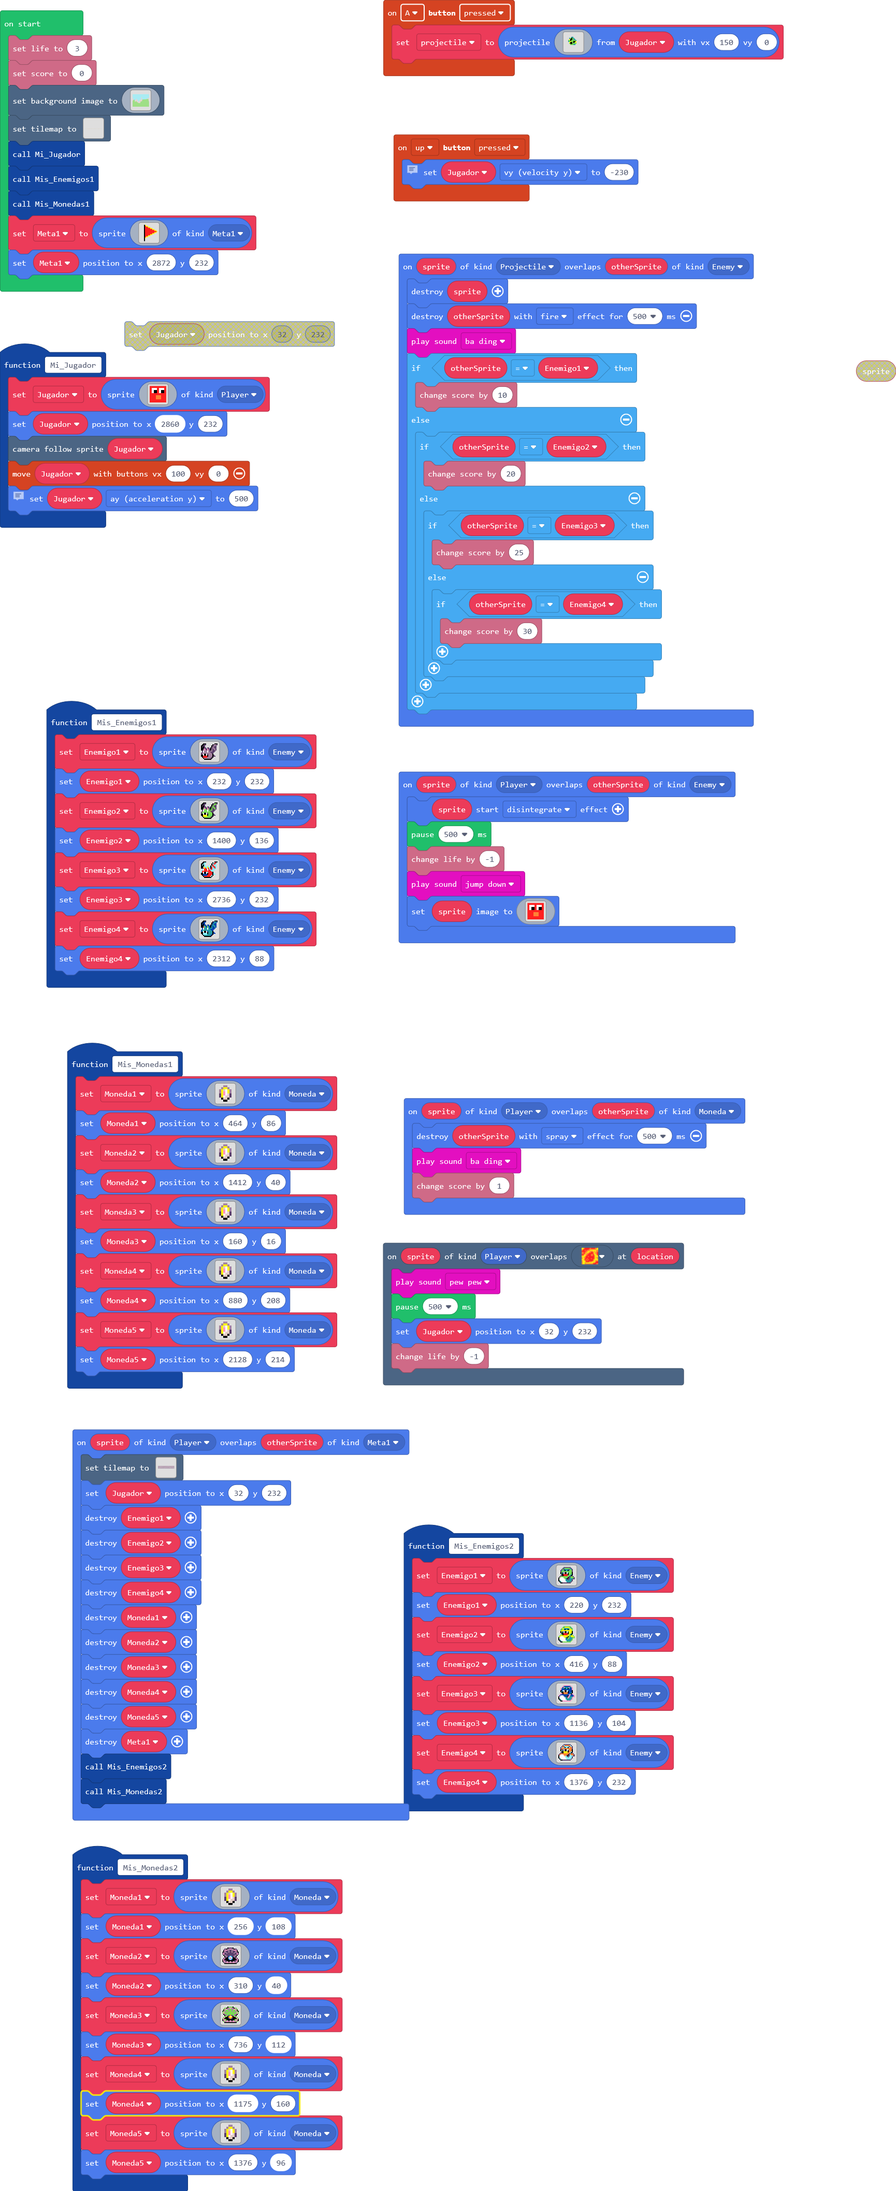
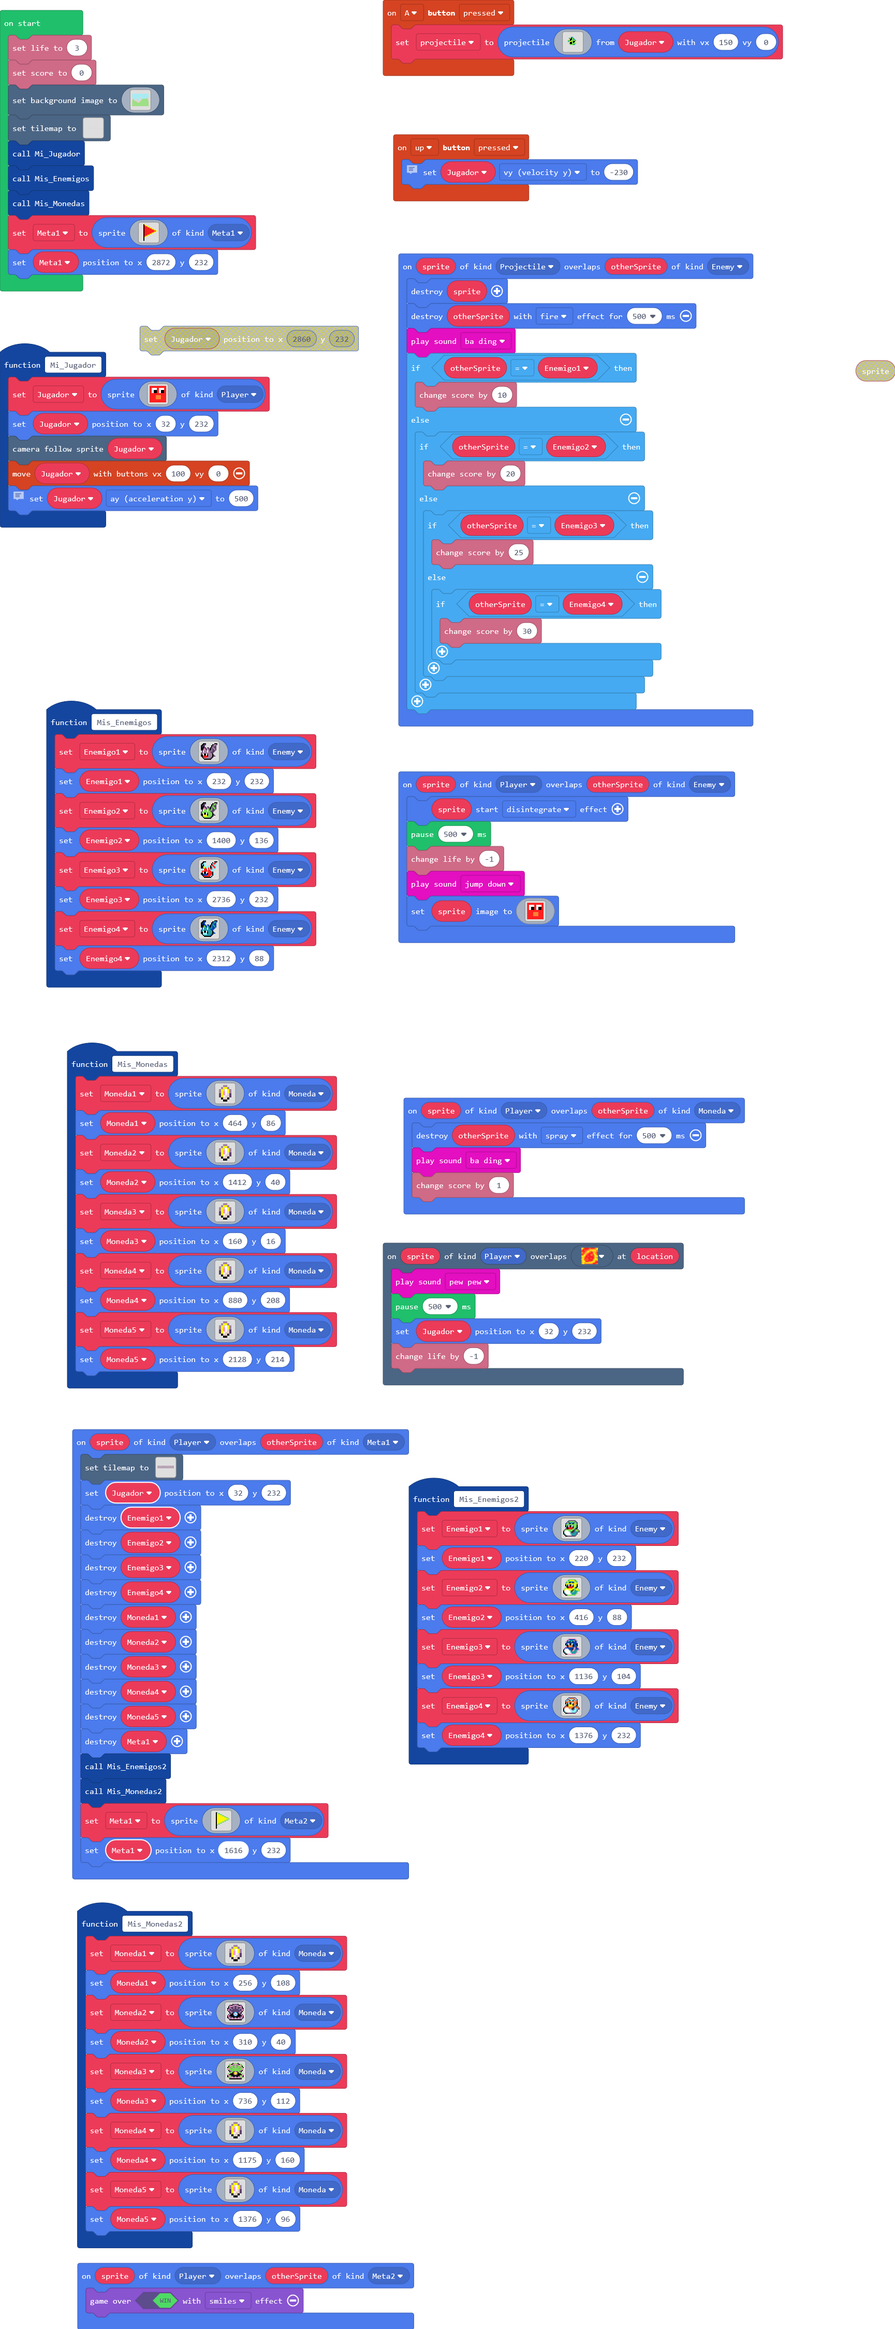
Finalizado nivel 2

diff --git a/main.ts b/main.ts
@@ -3,6 +3,7 @@ namespace SpriteKind {
     export const Player_Inmune = SpriteKind.create()
     export const Meta1 = SpriteKind.create()
     export const Moneda = SpriteKind.create()
+    export const Meta2 = SpriteKind.create()
 }
 namespace myTiles {
     //% blockIdentity=images._tile
@@ -25,7 +26,7 @@ namespace myTiles {
 . . . . . . . . . . . . . . . . 
 `
 }
-function Mis_Enemigos1 () {
+function Mis_Enemigos () {
     Enemigo1 = sprites.create(img`
 . . f f f . . . . . . . . f f f 
 . f f c c . . . . . . f c b b c 
@@ -102,84 +103,6 @@ f f 9 9 9 9 f 6 6 6 6 f 8 8 . .
 . . . f f f f f f f . . . . . . 
 `, SpriteKind.Enemy)
     Enemigo4.setPosition(2312, 88)
-}
-function Mis_Enemigos2 () {
-    Enemigo1 = sprites.create(img`
-. . . . . c c c c c c c . . . . 
-. . . . c 6 7 7 7 7 7 6 c . . . 
-. . . c 7 c 6 6 6 6 c 7 6 c . . 
-. . c 6 7 6 f 6 6 f 6 7 7 c . . 
-. . c 7 7 7 7 7 7 7 7 7 7 c . . 
-. . f 7 8 1 f f 1 6 7 7 7 f . . 
-. . f 6 f 1 f f 1 f 7 7 7 f . . 
-. . . f f 2 2 2 2 f 7 7 6 f . . 
-. . c c f 2 2 2 2 7 7 6 f c . . 
-. c 7 7 7 7 7 7 7 7 c c 7 7 c . 
-c 7 1 1 1 7 7 7 7 f c 6 7 7 7 c 
-f 1 1 1 1 1 7 6 f c c 6 6 6 c c 
-f 1 1 1 1 1 1 6 6 c 6 6 6 c . . 
-f 6 1 1 1 1 1 6 6 6 6 6 6 c . . 
-. f 6 1 1 1 1 1 6 6 6 6 c . . . 
-. . f f c c c c c c c c . . . . 
-`, SpriteKind.Enemy)
-    Enemigo1.setPosition(220, 232)
-    Enemigo2 = sprites.create(img`
-. . . . . 7 7 7 7 7 7 7 . . . . 
-. . . . 7 6 5 5 5 5 5 6 7 . . . 
-. . . 7 5 7 6 6 6 6 7 5 6 7 . . 
-. . 7 6 5 6 f 6 6 f 6 5 5 7 . . 
-. . 7 5 5 5 5 5 5 5 5 5 5 7 . . 
-. . f 5 8 1 f f 1 6 5 5 5 f . . 
-. . f 6 f 1 f f 1 f 5 5 5 f . . 
-. . . f f 2 2 2 2 f 5 5 6 f . . 
-. . 7 7 f 2 2 2 2 5 5 6 f 7 . . 
-. 7 5 5 5 5 5 5 5 5 7 7 5 5 7 . 
-7 5 1 1 1 5 5 5 5 f 7 6 5 5 5 7 
-f 1 1 1 1 1 5 6 f 7 7 6 6 6 7 7 
-f 1 1 1 1 1 1 6 6 7 6 6 6 7 . . 
-f 6 1 1 1 1 1 6 6 6 6 6 6 7 . . 
-. f 6 1 1 1 1 1 6 6 6 6 7 . . . 
-. . f f 7 7 7 7 7 7 7 7 . . . . 
-`, SpriteKind.Enemy)
-    Enemigo2.setPosition(416, 88)
-    Enemigo3 = sprites.create(img`
-. . . . . 3 3 3 3 3 3 3 . . . . 
-. . . . 3 6 8 8 8 8 8 6 3 . . . 
-. . . 3 8 3 6 6 6 6 3 8 6 3 . . 
-. . 3 6 8 6 f 6 6 f 6 8 8 3 . . 
-. . 3 8 8 8 8 8 8 8 8 8 8 3 . . 
-. . f 8 9 1 f f 1 6 8 8 8 f . . 
-. . f 6 f 1 f f 1 f 8 8 8 f . . 
-. . . f f 4 4 4 4 f 8 8 6 f . . 
-. . 3 3 f 4 4 4 4 8 8 6 f 3 . . 
-. 3 8 8 8 8 8 8 8 8 3 3 8 8 3 . 
-3 8 1 1 1 8 8 8 8 f 3 6 8 8 8 3 
-f 1 1 1 1 1 8 6 f 3 3 6 6 6 3 3 
-f 1 1 1 1 1 1 6 6 3 6 6 6 3 . . 
-f 6 1 1 1 1 1 6 6 6 6 6 6 3 . . 
-. f 6 1 1 1 1 1 6 6 6 6 3 . . . 
-. . f f 3 3 3 3 3 3 3 3 . . . . 
-`, SpriteKind.Enemy)
-    Enemigo3.setPosition(1136, 104)
-    Enemigo4 = sprites.create(img`
-. . . . . c c c c c c c . . . . 
-. . . . c 9 4 4 4 4 4 9 c . . . 
-. . . c 4 c 9 9 9 9 c 4 9 c . . 
-. . c 9 4 9 f 9 9 f 9 4 4 c . . 
-. . c 4 4 4 4 4 4 4 4 4 4 c . . 
-. . f 4 8 1 f f 1 9 4 4 4 f . . 
-. . f 9 f 1 f f 1 f 4 4 4 f . . 
-. . . f f 5 5 5 5 f 4 4 9 f . . 
-. . c c f 5 5 5 5 4 4 9 f c . . 
-. c 4 4 4 4 4 4 4 4 c c 4 4 c . 
-c 4 1 1 1 4 4 4 4 f c 9 4 4 4 c 
-f 1 1 1 1 1 4 9 f c c 9 9 9 c c 
-f 1 1 1 1 1 1 9 9 c 9 9 9 c . . 
-f 9 1 1 1 1 1 9 9 9 9 9 9 c . . 
-. f 9 1 1 1 1 1 9 9 9 9 c . . . 
-. . f f c c c c c c c c . . . . 
-`, SpriteKind.Enemy)
-    Enemigo4.setPosition(1376, 232)
 }
 function Mis_Monedas2 () {
     Moneda1 = sprites.create(img`
@@ -279,7 +202,7 @@ sprites.onOverlap(SpriteKind.Projectile, SpriteKind.Enemy, function (sprite, oth
         }
     }
 })
-function Mis_Monedas1 () {
+function Mis_Monedas () {
     Moneda1 = sprites.create(img`
 . . . b b . . . 
 . . b 5 5 b . . 
@@ -336,6 +259,9 @@ function Mis_Monedas1 () {
 `, SpriteKind.Moneda)
     Moneda5.setPosition(2128, 214)
 }
+sprites.onOverlap(SpriteKind.Player, SpriteKind.Meta2, function (sprite, otherSprite) {
+    game.over(true, effects.smiles)
+})
 controller.A.onEvent(ControllerButtonEvent.Pressed, function () {
     projectile = sprites.createProjectileFromSprite(img`
 . . . . . . . . . . . . . . . . 
@@ -405,7 +331,7 @@ function Mi_Jugador () {
 2 2 2 2 2 2 2 2 2 2 2 2 2 2 2 2 
 2 2 2 2 2 2 2 2 2 2 2 2 2 2 2 2 
 `, SpriteKind.Player)
-    Jugador.setPosition(2860, 232)
+    Jugador.setPosition(32, 232)
     scene.cameraFollowSprite(Jugador)
     controller.moveSprite(Jugador, 100, 0)
     // Aceleracion vertical
@@ -413,26 +339,26 @@ function Mi_Jugador () {
 }
 sprites.onOverlap(SpriteKind.Player, SpriteKind.Meta1, function (sprite, otherSprite) {
     tiles.setTilemap(tiles.createTilemap(
-            hex`6400100001010101010103010101010101010101010101010101010101010101010101010101010101010101010101010101010101010101010101010101010101010101010101010101010101010101010101010101010101010101010101010101010101010101010301010101010101010101010101010101010401010102020101010101010202020201010101010101010101010101010101010202020202020201010101010104040404040401010101010101010101010101010101020101010101010101010104010101010102010101010101010101010101010104040101010101010301010101010103010101010201010101030303010101020201010101030101020201010101010101010104010102010101030103010101010101010102010104010102020104040101010101010101010102010301010606060606060101010101010103010201010101010103010103010101010101010101020101010101030301010101060606060601010101010401010103030101010303030101010101010202010401010101040101010104040404010101010301010101010101010101010101010101030101010102010101010101010101030101010101010201010101030401010101010201010101010101010101040101010101010101010301010301010101010101010101010101010101010101010301010101010101010102010201010101010201010101010404010301010102020302020101010301010201010103030101040401010201020101010301010101010104010101010101010101010306060603010101010103030303030101010101010101030101010101010202010102010106060606060601040401010101010101010101010101010101010102010101010606060606060101020201010101010101010101010101010301010101010103010101010301010101010101010101010103010201010301010101020201010101010101010101010101010101010102010103010103010101010101010101020303010104040404010104010102010101010106060606060601010101030303010101010101010101010101010102020101010101030101010101010102020101010101010101010101010104010101010101010101010303010201010301010103030301010101010104040101040101020101010201030101020101010101010101010101010202020101010102010101020101010101010301010101010202010101010606060606060101010101040101010202010101010101010102010101010606060606060101010101040101010401010201010101010101010101010101010103030301010201060606010101020101010101010101010103010101020201010101010201010101010101010202010104010101010101010101010102010101010101030101020101030101010101040101040102010101010103010101010101030101010101020201010101010101010201010101010101010101030101020101010101010101010101010101040101020101010101010101010202020201010101010101010101010201010303010104040101010101020101010301010101010106060606060601020101010101010101010102010103020101010101010101010101060606060606010103030303010404010101010102020101010101010106060606060601010301010101020101010304010101010101020101010101010202020404010301010101010101010101010101010101060606060606060202010101010404010101010101010101010101010101040101010102040401010103010404010101010101030103030101010201010101010101010101030201010101010101010401010301010103030101010101010103010101010201010201010201010101010101010101010101010102020101010101010101010101010101040401010301010101010101010101010303010101020201010101010101020203010101010103030301010103010101010101030303010103010101010101010102010202010105050505050505050505050505050505050505050505050505050505050505050505050505050505050505050505050505050505050505050505050505050505050505050505050505050505050505050505050505050505050505050505050505050505`,
+            hex`6700100001010101010103010101010101010101010101010101010101010101010101010101010101010101010101010101010101010101010101010101010101010101010101010101010101010101010101010101010101010101030301010101010101010101010101010301010101010101010101010101010101010401010102020101010101010202020201010101010101010101010101010101010202020202020201010101010104040404040401010101010101010101010101010103030101010101010101010104010101030101010102010101010101010101010101010104040101010101010301010101010103010101010201010101030303010101020201010101030101020201010101010101010104010102010101030103010101010303010102010104010102020104040101030101010101010101010102010301010606060606060101010101010103010201010101010103010103010101010101010101020101010101030301010101060606060601010101010401010103030101010303030101010101010202010401010101040101010101010104040404010101010301010101010101010101010101010101030101010102010101010101010101030101010101010201010101030401010101010201010101010101010101040101010101010101010301010301010101010101010101010103030101010101010101010301010101010101010102010201010101010201010101010404010301010102020302020101010301010201010103030101040401010201020101010301010101010104010101010101010101010306060603010101010103030303030103030101010101010101030101010101010202010102010106060606060601040401010101010101010101010101010101010102010101010606060606060101020201010101010101010101010101010301010101010103010101010301010101030101010101010303010103010201010301010101020201010101010101010101010101010101010102010103010103010101010101010101020303010104040404010104010102010101010106060606060601010101030303010101010101010101010101030102020101010202010101030101010101010102020101010101010101010101010104010101010101010101010303010201010301010103030301010101010104040101040101020103010201030101020101010101010101010101010202020101010102010301020101010101010101010301010101010202010101010606060606060101010101040101010202010101010101010102010101010606060606060101010101040101010401010203010101010101010303010101010103030301010201060606010101020101010101010202010301010103010101020201010101010201010101010101010202010104010101010101010101010102010101010101030101020101030101010101040101040103010101010103010103010101030101010101020201010101010101010201010101010101010202010101030101020101010101010101010101010101040101020101010101010101010202020201010101010101010101010201010303010104040101010101020101010301010101030106060606060601020101010101010301010102010103020101010101010301010101010101060606060606010103030303010404010101010102020101010101010106060606060601010301010101020101010304010101010101020101010101010202020404010301010101010101010301010301010101060606060606060202010101010101010404010101010101010101010101010101040101010102040401010103010404010101010101030103030101010201010101010101010101030201010101010101010401010301010103030101010301010103010101010201010201010201010102020101010101010101010101010102020101010101010101010101010101040401010301010101010101010101010303010101020201010101010101020203010101010103030301010103010101010101030303010103010101010101010102010202010101010105050505050505050505050505050505050505050505050505050505050505050505050505050505050505050505050505050505050505050505050505050505050505050505050505050505050505050505050505050505050505050505050505050505050505`,
             img`
-. . . . . . . . . . . . . . . . . . . . . . . . . . . . . . . . . . . . . . . . . . . . . . . . . . . . . . . . . . . . . . . . . . . . . . . . . . . . . . . . . . . . . . . . . . . . . . . . . . . . 
-. . . . . . . . . . . . . . . . . . . . . . . . . . . . . . . . . . . . . . . . . . . . . . . . . . . . . . . . . . . . . . . . . . . . . . . . . . . . . . . . . . . . . . . . . . . . . . . . . . . . 
-. . . . . . . . . . . . . . . . . . . . . . . . . . . . . . . . . . . . . . . . . . . . . . . . . . . . . . . . . . . . . . . . . . . . . . . . . . . . . . . . . . . . . . . . . . . . . . . . . . . . 
-. . . . . . . . . . . . . . 2 2 2 2 2 2 . . . . . . . . . . . . . . . . . . . . . . . . . . . . . . . . . . . . . . . . . 2 2 2 2 2 . . . . . . . . . . . . . . . . . . . . . . . . . . . . . . . . . . 
-. . . . . . . . . . . . . . . . . . . . . . . . . . . . . . . . . . . . . . . . . . . . . . . . . . . . . . . . . . . . . . . . . . . . . . . . . . . . . . . . . . . . . . . . . . . . . . . . . . . . 
-. . . . . . . . . . . . . . . . . . . . . . . . . . . . . . . . . . . . . . . . . . . . . . . . . . . . . . . . . . . . . . . . . . . . . . . . . . . . . . . . . . . . . 2 2 2 . . . . . . . . . . . . 
-. . . . . . . . . . . . . . . . . . . . . 2 2 2 2 2 2 . . . . . . . . . . . . . . . . . . . . . . . . . . 2 2 2 2 2 2 . . . . . . . . . . . . . . . . . . . . . . . . . . . . . . . . . . . . . . . . . 
-. . . . . . . . . . . . . . . . . . . . . . . . . . . . . . . . . . . . . . . . . . . . . . . . . . . . . . . . . . . . . . . . . . . . 2 2 2 2 2 2 . . . . . . . . . . . . . . . . . . . . . . . . . . 
-. . . . . . . . . . . . . . . . . . . . . . . . . . . . . . . . . . . . . . . . . . . . . . . . . . . . . . . . . . . . . . . . . . . . . . . . . . . . . . . . . . . . . . . . . . . . . . . . . . . . 
-. . . . . . . . . . . . . . 2 2 2 2 2 2 . . . . . . . . . . . . . . . . . . . . . . . . 2 2 2 2 2 2 . . . . . . . . . . . . . . . . . . . . . . . . . . . . . . . . . . . 2 2 2 . . . . . . . . . . . . 
-. . . . . . . . . . . . . . . . . . . . . . . . . . . . . . . . . . . . . . . . . . . . . . . . . . . . . . . . . . . . . . . . . . . . . . . . . . . . . . . . . . . . . . . . . . . . . . . . . . . . 
-. . . . . . . . . . . . . . . . . . . . . . . . . . . . . . . . . . . . . . . . . . . . . . . . . . . . . . . . . . . . . . . . . . . . . . . . . 2 2 2 2 2 2 . . . . . . . . . . . . . . . . . . . . . 
-. . . . . . . 2 2 2 2 2 2 . . . . . . . . . . . . . . . . . . . . . . . 2 2 2 2 2 2 . . . . . . . . . . . . . . . . . . . . . . . . . . . . . . . . . . . . . . . . . . . . . . . . . 2 2 2 2 2 2 2 . . 
-. . . . . . . . . . . . . . . . . . . . . . . . . . . . . . . . . . . . . . . . . . . . . . . . . . . . . . . . . . . . . . . . . . . . . . . . . . . . . . . . . . . . . . . . . . . . . . . . . . . . 
-. . . . . . . . . . . . . . . . . . . . . . . . . . . . . . . . . . . . . . . . . . . . . . . . . . . . . . . . . . . . . . . . . . . . . . . . . . . . . . . . . . . . . . . . . . . . . . . . . . . . 
-2 2 2 2 2 2 2 2 2 2 2 2 2 2 2 2 2 2 2 2 2 2 2 2 2 2 2 2 2 2 2 2 2 2 2 2 2 2 2 2 2 2 2 2 2 2 2 2 2 2 2 2 2 2 2 2 2 2 2 2 2 2 2 2 2 2 2 2 2 2 2 2 2 2 2 2 2 2 2 2 2 2 2 2 2 2 2 2 2 2 2 2 2 2 2 2 2 2 2 2 
+. . . . . . . . . . . . . . . . . . . . . . . . . . . . . . . . . . . . . . . . . . . . . . . . . . . . . . . . . . . . . . . . . . . . . . . . . . . . . . . . . . . . . . . . . . . . . . . . . . . . . . . 
+. . . . . . . . . . . . . . . . . . . . . . . . . . . . . . . . . . . . . . . . . . . . . . . . . . . . . . . . . . . . . . . . . . . . . . . . . . . . . . . . . . . . . . . . . . . . . . . . . . . . . . . 
+. . . . . . . . . . . . . . . . . . . . . . . . . . . . . . . . . . . . . . . . . . . . . . . . . . . . . . . . . . . . . . . . . . . . . . . . . . . . . . . . . . . . . . . . . . . . . . . . . . . . . . . 
+. . . . . . . . . . . . . . 2 2 2 2 2 2 . . . . . . . . . . . . . . . . . . . . . . . . . . . . . . . . . . . . . . . . . 2 2 2 2 2 . . . . . . . . . . . . . . . . . . . . . . . . . . . . . . . . . . . . . 
+. . . . . . . . . . . . . . . . . . . . . . . . . . . . . . . . . . . . . . . . . . . . . . . . . . . . . . . . . . . . . . . . . . . . . . . . . . . . . . . . . . . . . . . . . . . . . . . . . . . . . . . 
+. . . . . . . . . . . . . . . . . . . . . . . . . . . . . . . . . . . . . . . . . . . . . . . . . . . . . . . . . . . . . . . . . . . . . . . . . . . . . . . . . . . . . 2 2 2 . . . . . . . . . . . . . . . 
+. . . . . . . . . . . . . . . . . . . . . 2 2 2 2 2 2 . . . . . . . . . . . . . . . . . . . . . . . . . . 2 2 2 2 2 2 . . . . . . . . . . . . . . . . . . . . . . . . . . . . . . . . . . . . . . . . . . . . 
+. . . . . . . . . . . . . . . . . . . . . . . . . . . . . . . . . . . . . . . . . . . . . . . . . . . . . . . . . . . . . . . . . . . . 2 2 2 2 2 2 . . . . . . . . . . . . . . . . . . . . . . . . . . . . . 
+. . . . . . . . . . . . . . . . . . . . . . . . . . . . . . . . . . . . . . . . . . . . . . . . . . . . . . . . . . . . . . . . . . . . . . . . . . . . . . . . . . . . . . . . . . . . . . . . . . . . . . . 
+. . . . . . . . . . . . . . 2 2 2 2 2 2 . . . . . . . . . . . . . . . . . . . . . . . . 2 2 2 2 2 2 . . . . . . . . . . . . . . . . . . . . . . . . . . . . . . . . . . . 2 2 2 . . . . . . . . . . . . . . . 
+. . . . . . . . . . . . . . . . . . . . . . . . . . . . . . . . . . . . . . . . . . . . . . . . . . . . . . . . . . . . . . . . . . . . . . . . . . . . . . . . . . . . . . . . . . . . . . . . . . . . . . . 
+. . . . . . . . . . . . . . . . . . . . . . . . . . . . . . . . . . . . . . . . . . . . . . . . . . . . . . . . . . . . . . . . . . . . . . . . . 2 2 2 2 2 2 . . . . . . . . . . . . . . . . . . . . . . . . 
+. . . . . . . 2 2 2 2 2 2 . . . . . . . . . . . . . . . . . . . . . . . 2 2 2 2 2 2 . . . . . . . . . . . . . . . . . . . . . . . . . . . . . . . . . . . . . . . . . . . . . . . . . 2 2 2 2 2 2 2 . . . . . 
+. . . . . . . . . . . . . . . . . . . . . . . . . . . . . . . . . . . . . . . . . . . . . . . . . . . . . . . . . . . . . . . . . . . . . . . . . . . . . . . . . . . . . . . . . . . . . . . . . . . . . . . 
+. . . . . . . . . . . . . . . . . . . . . . . . . . . . . . . . . . . . . . . . . . . . . . . . . . . . . . . . . . . . . . . . . . . . . . . . . . . . . . . . . . . . . . . . . . . . . . . . . . . . . . . 
+2 2 2 2 2 2 2 2 2 2 2 2 2 2 2 2 2 2 2 2 2 2 2 2 2 2 2 2 2 2 2 2 2 2 2 2 2 2 2 2 2 2 2 2 2 2 2 2 2 2 2 2 2 2 2 2 2 2 2 2 2 2 2 2 2 2 2 2 2 2 2 2 2 2 2 2 2 2 2 2 2 2 2 2 2 2 2 2 2 2 2 2 2 2 2 2 2 2 2 2 2 2 2 
 `,
-            [myTiles.tile0,sprites.dungeon.floorDark0,sprites.dungeon.floorDark5,sprites.dungeon.floorDarkDiamond,sprites.dungeon.floorDark4,sprites.dungeon.darkGroundNorth,sprites.dungeon.floorLight0],
+            [myTiles.tile0,sprites.dungeon.floorDark0,sprites.dungeon.floorDark5,sprites.dungeon.floorDarkDiamond,sprites.dungeon.floorDark4,sprites.dungeon.darkGroundNorth,sprites.dungeon.floorLight0,sprites.dungeon.floorDark2],
             TileScale.Sixteen
         ))
     Jugador.setPosition(32, 232)
@@ -448,7 +374,104 @@ sprites.onOverlap(SpriteKind.Player, SpriteKind.Meta1, function (sprite, otherSp
     Meta1.destroy()
     Mis_Enemigos2()
     Mis_Monedas2()
+    Meta1 = sprites.create(img`
+. . . f 7 . . . . . . . . . . . 
+. . . f 5 7 7 . . . . . . . . . 
+. . . f 5 5 5 7 7 . . . . . . . 
+. . . f 5 5 5 5 5 7 7 . . . . . 
+. . . f 5 5 5 5 5 5 5 7 7 . . . 
+. . . f 5 5 5 5 5 5 5 5 5 7 7 . 
+. . . f 5 5 5 5 5 5 5 5 5 5 5 7 
+. . . f 5 5 5 5 5 5 5 5 5 7 7 . 
+. . . f 5 5 5 5 5 5 5 7 7 . . . 
+. . . f 5 5 5 5 5 7 7 . . . . . 
+. . . f 5 5 5 7 7 . . . . . . . 
+. . . f 5 7 7 . . . . . . . . . 
+. . . f 7 . . . . . . . . . . . 
+. . . f . . . . . . . . . . . . 
+. . . f . . . . . . . . . . . . 
+. . . f . . . . . . . . . . . . 
+`, SpriteKind.Meta2)
+    Meta1.setPosition(1616, 232)
 })
+function Mis_Enemigos2 () {
+    Enemigo1 = sprites.create(img`
+. . . . . c c c c c c c . . . . 
+. . . . c 6 7 7 7 7 7 6 c . . . 
+. . . c 7 c 6 6 6 6 c 7 6 c . . 
+. . c 6 7 6 f 6 6 f 6 7 7 c . . 
+. . c 7 7 7 7 7 7 7 7 7 7 c . . 
+. . f 7 8 1 f f 1 6 7 7 7 f . . 
+. . f 6 f 1 f f 1 f 7 7 7 f . . 
+. . . f f 2 2 2 2 f 7 7 6 f . . 
+. . c c f 2 2 2 2 7 7 6 f c . . 
+. c 7 7 7 7 7 7 7 7 c c 7 7 c . 
+c 7 1 1 1 7 7 7 7 f c 6 7 7 7 c 
+f 1 1 1 1 1 7 6 f c c 6 6 6 c c 
+f 1 1 1 1 1 1 6 6 c 6 6 6 c . . 
+f 6 1 1 1 1 1 6 6 6 6 6 6 c . . 
+. f 6 1 1 1 1 1 6 6 6 6 c . . . 
+. . f f c c c c c c c c . . . . 
+`, SpriteKind.Enemy)
+    Enemigo1.setPosition(220, 232)
+    Enemigo2 = sprites.create(img`
+. . . . . 7 7 7 7 7 7 7 . . . . 
+. . . . 7 6 5 5 5 5 5 6 7 . . . 
+. . . 7 5 7 6 6 6 6 7 5 6 7 . . 
+. . 7 6 5 6 f 6 6 f 6 5 5 7 . . 
+. . 7 5 5 5 5 5 5 5 5 5 5 7 . . 
+. . f 5 8 1 f f 1 6 5 5 5 f . . 
+. . f 6 f 1 f f 1 f 5 5 5 f . . 
+. . . f f 2 2 2 2 f 5 5 6 f . . 
+. . 7 7 f 2 2 2 2 5 5 6 f 7 . . 
+. 7 5 5 5 5 5 5 5 5 7 7 5 5 7 . 
+7 5 1 1 1 5 5 5 5 f 7 6 5 5 5 7 
+f 1 1 1 1 1 5 6 f 7 7 6 6 6 7 7 
+f 1 1 1 1 1 1 6 6 7 6 6 6 7 . . 
+f 6 1 1 1 1 1 6 6 6 6 6 6 7 . . 
+. f 6 1 1 1 1 1 6 6 6 6 7 . . . 
+. . f f 7 7 7 7 7 7 7 7 . . . . 
+`, SpriteKind.Enemy)
+    Enemigo2.setPosition(416, 88)
+    Enemigo3 = sprites.create(img`
+. . . . . 3 3 3 3 3 3 3 . . . . 
+. . . . 3 6 8 8 8 8 8 6 3 . . . 
+. . . 3 8 3 6 6 6 6 3 8 6 3 . . 
+. . 3 6 8 6 f 6 6 f 6 8 8 3 . . 
+. . 3 8 8 8 8 8 8 8 8 8 8 3 . . 
+. . f 8 9 1 f f 1 6 8 8 8 f . . 
+. . f 6 f 1 f f 1 f 8 8 8 f . . 
+. . . f f 4 4 4 4 f 8 8 6 f . . 
+. . 3 3 f 4 4 4 4 8 8 6 f 3 . . 
+. 3 8 8 8 8 8 8 8 8 3 3 8 8 3 . 
+3 8 1 1 1 8 8 8 8 f 3 6 8 8 8 3 
+f 1 1 1 1 1 8 6 f 3 3 6 6 6 3 3 
+f 1 1 1 1 1 1 6 6 3 6 6 6 3 . . 
+f 6 1 1 1 1 1 6 6 6 6 6 6 3 . . 
+. f 6 1 1 1 1 1 6 6 6 6 3 . . . 
+. . f f 3 3 3 3 3 3 3 3 . . . . 
+`, SpriteKind.Enemy)
+    Enemigo3.setPosition(1136, 104)
+    Enemigo4 = sprites.create(img`
+. . . . . c c c c c c c . . . . 
+. . . . c 9 4 4 4 4 4 9 c . . . 
+. . . c 4 c 9 9 9 9 c 4 9 c . . 
+. . c 9 4 9 f 9 9 f 9 4 4 c . . 
+. . c 4 4 4 4 4 4 4 4 4 4 c . . 
+. . f 4 8 1 f f 1 9 4 4 4 f . . 
+. . f 9 f 1 f f 1 f 4 4 4 f . . 
+. . . f f 5 5 5 5 f 4 4 9 f . . 
+. . c c f 5 5 5 5 4 4 9 f c . . 
+. c 4 4 4 4 4 4 4 4 c c 4 4 c . 
+c 4 1 1 1 4 4 4 4 f c 9 4 4 4 c 
+f 1 1 1 1 1 4 9 f c c 9 9 9 c c 
+f 1 1 1 1 1 1 9 9 c 9 9 9 c . . 
+f 9 1 1 1 1 1 9 9 9 9 9 9 c . . 
+. f 9 1 1 1 1 1 9 9 9 9 c . . . 
+. . f f c c c c c c c c . . . . 
+`, SpriteKind.Enemy)
+    Enemigo4.setPosition(1376, 232)
+}
 controller.up.onEvent(ControllerButtonEvent.Pressed, function () {
     // velocidad negativa para que se mueva hacia arriba
     Jugador.vy = -230
@@ -613,8 +636,8 @@ tiles.setTilemap(tiles.createTilemap(
             TileScale.Sixteen
         ))
 Mi_Jugador()
-Mis_Enemigos1()
-Mis_Monedas1()
+Mis_Enemigos()
+Mis_Monedas()
 Meta1 = sprites.create(img`
 . . . f 5 . . . . . . . . . . . 
 . . . f 2 5 5 . . . . . . . . . 
